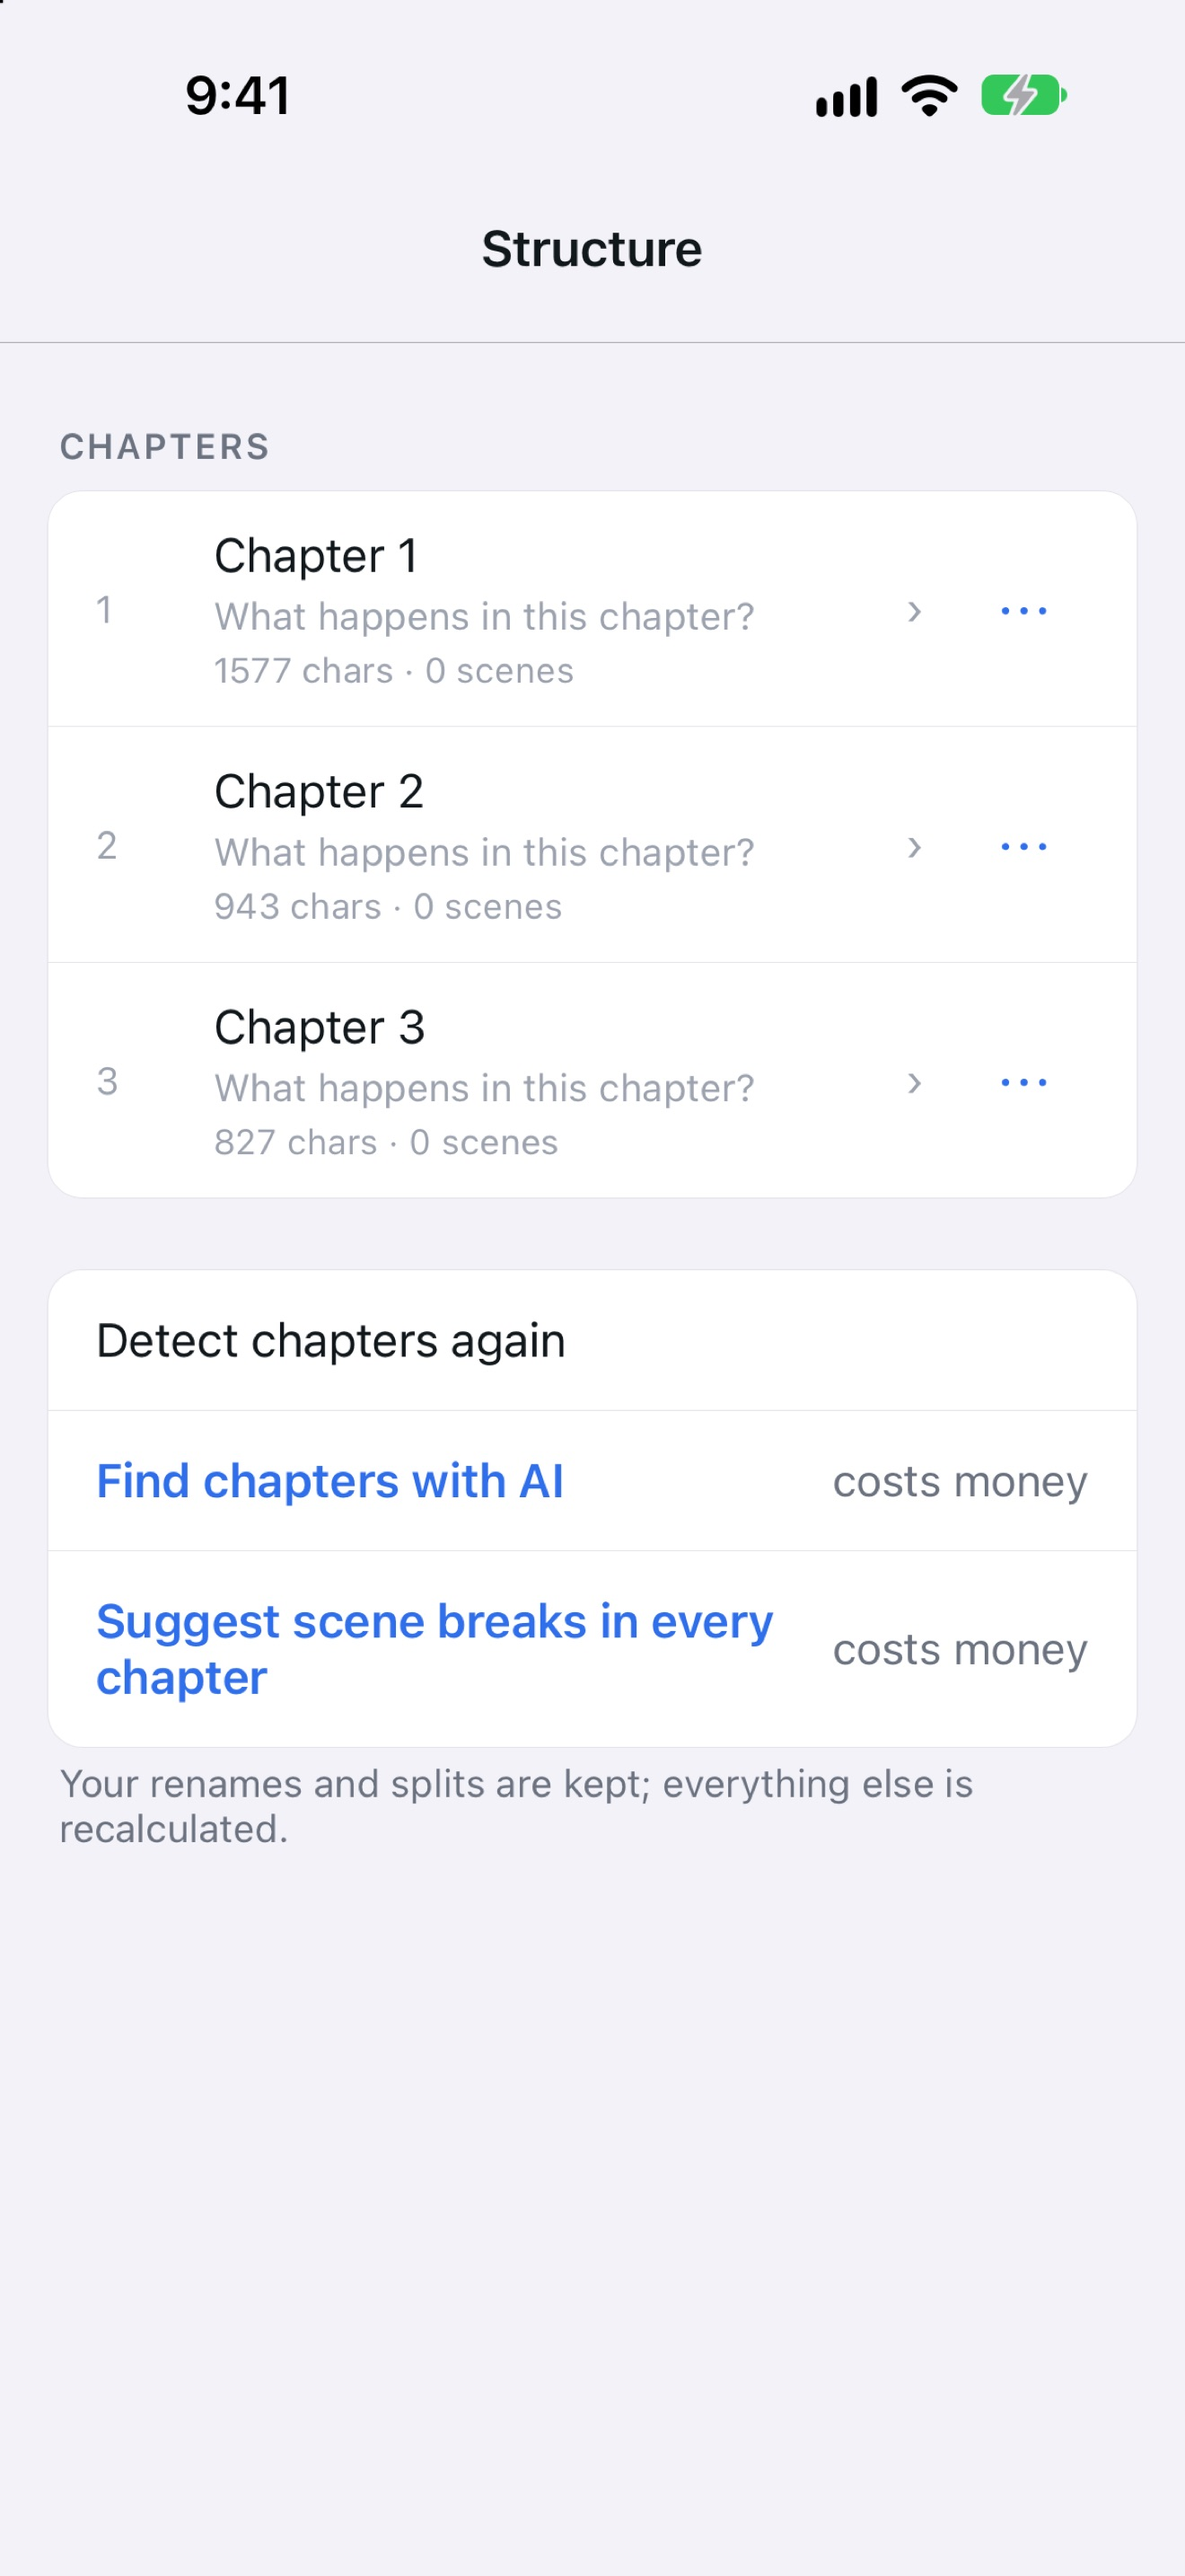
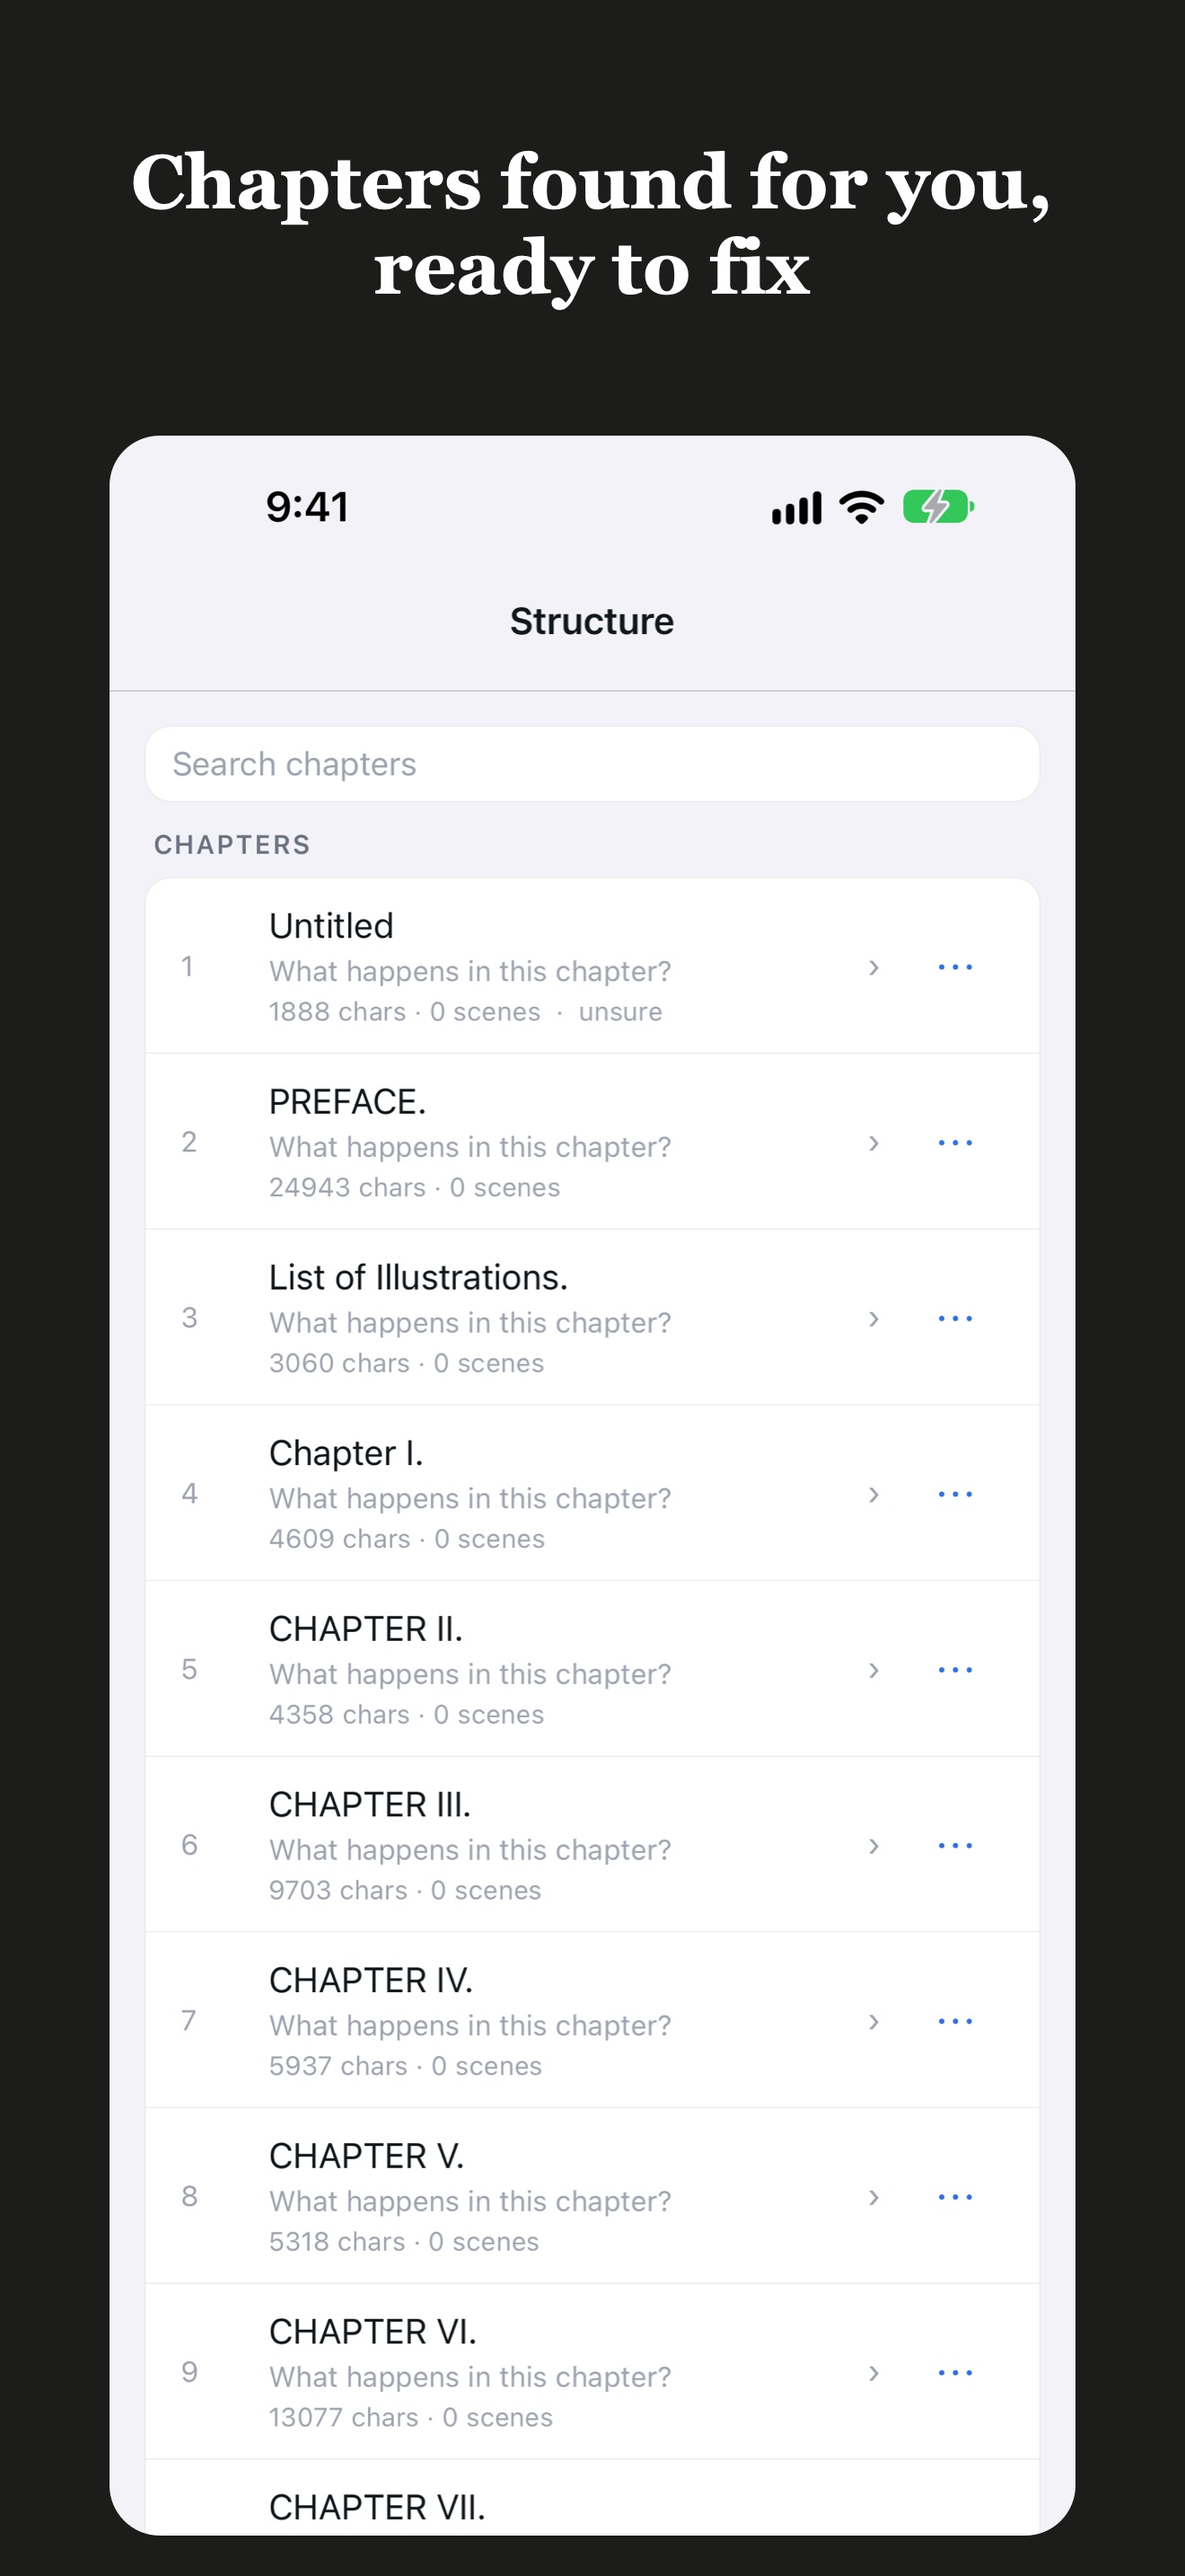
Take the listing screenshots from the sample's story bible
The old set led with the shelf, the reader and flash cards: what got 1.0
read as a generic reader. A UI test now opens the sample's cast, graph,
continuity, structure and place screens in English and Chinese, on a
simulator, and leaves the app on the real library afterwards. The review
notes walk the same path, and no longer promise a screenplay without a key.

diff --git a/src/dev/screenshot.ts b/src/dev/screenshot.ts
@@ -1,22 +1,60 @@
+import i18n from 'i18next';
 import { closeDatabase } from '../db';
-import { listBooks } from '../db/repo';
+import { deleteBook, listBooks, listEntities } from '../db/repo';
 import { router } from '../navigation/router';
+import { addSampleBook } from '../sample/sample';
+import { SAMPLE_GUTENBERG } from '../sample/prideAndPrejudice';
 import { setDemoMode } from './demo';
 import { seedDemoLibrary } from './seedDemo';
 
 // Only reachable when the native side passes a `screen` prop (SCREENSHOTS builds).
-export async function prepareScreenshots() {
-  await setDemoMode(true);
+let sampleId: string | undefined;
+
+/**
+ * `seed`: `demo` (default) the made-up library; `sample` the real Pride and
+ * Prejudice with its prepared analysis (`sample-fresh` imports it again);
+ * `off` back to the real library.
+ * `lang` applies for this launch only.
+ */
+export async function prepareScreenshots(seed = 'demo', lang?: string) {
+  if (lang) await i18n.changeLanguage(lang);
+  await setDemoMode(seed !== 'off');
   closeDatabase();
-  await seedDemoLibrary();
+  if (seed.startsWith('sample')) sampleId = await ensureSample(seed === 'sample-fresh');
+  else if (seed === 'demo') await seedDemoLibrary();
 }
 
-/** `/book/@Moby-Dick/cast`: `@Title` (underscores for spaces) becomes that book's id. */
+async function ensureSample(fresh: boolean): Promise<string> {
+  for (const book of await listBooks()) {
+    if (book.title !== SAMPLE_GUTENBERG.title) continue;
+    if (fresh) {
+      await deleteBook(book.id);
+      continue;
+    }
+    if ((await listEntities(book.id, 'character')).length > 10) return book.id;
+  }
+  return new Promise((resolve) => void addSampleBook(resolve));
+}
+
+/**
+ * `/book/@Moby-Dick/cast`: `@Title` (underscores for spaces) becomes that book's id,
+ * `@sample` the sample's. `/entity/@sample~Elizabeth_Bennet`: that book's character or place.
+ */
 export async function openScreen(spec: string) {
   const books = await listBooks();
-  const path = spec.replace(/@([^/]+)/, (_, name: string) => {
+  const bookId = (name: string) => {
+    if (name === 'sample') return sampleId ?? name;
     const title = name.replace(/_/g, ' ').toLowerCase();
     return books.find((b) => b.title.toLowerCase().startsWith(title))?.id ?? name;
-  });
-  router.replace(path);
+  };
+  const entityId = async (book: string, name: string) => {
+    const wanted = name.replace(/_/g, ' ');
+    const all = [...(await listEntities(book, 'character')), ...(await listEntities(book, 'place'))];
+    return all.find((e) => e.name === wanted)?.id ?? name;
+  };
+  const match = spec.match(/@([^/~]+)(?:~([^/]+))?/);
+  if (!match) return router.replace(spec);
+  const book = bookId(match[1]);
+  const id = match[2] ? await entityId(book, match[2]) : book;
+  router.replace(spec.replace(match[0], id));
 }

diff --git a/ios/NovelManUITests/ScreenshotTests.swift b/ios/NovelManUITests/ScreenshotTests.swift
@@ -1,0 +1,47 @@
+import XCTest
+
+/// Listing screenshots from the sample book, story bible first. Needs a SCREENSHOTS build;
+/// shots are attachments in the result bundle. Ends by switching the app back to the real library.
+final class ScreenshotTests: XCTestCase {
+  private let shots: [(name: String, route: String)] = [
+    ("01-cast", "/entity/@sample~Elizabeth_Bennet"),
+    ("02-graph", "/book/@sample/graph"),
+    ("03-continuity", "/book/@sample/cast"),
+    ("04-structure", "/book/@sample/structure"),
+    ("05-place", "/place/@sample~Pemberley"),
+    ("06-book", "/book/@sample"),
+  ]
+
+  override func setUp() {
+    continueAfterFailure = true
+  }
+
+  private func launch(_ route: String, seed: String, lang: String? = nil) -> XCUIApplication {
+    let app = XCUIApplication()
+    app.launchArguments = ["-screen", route, "-seed", seed] + (lang.map { ["-lang", $0] } ?? [])
+    app.launch()
+    return app
+  }
+
+  private func capture(lang: String, fresh: Bool) {
+    let ready = launch("/book/@sample/cast", seed: fresh ? "sample-fresh" : "sample", lang: lang)
+    let elizabeth = ready.staticTexts.matching(NSPredicate(format: "label CONTAINS 'Elizabeth'")).firstMatch
+    XCTAssertTrue(elizabeth.waitForExistence(timeout: 180), "sample never analysed")
+    for shot in shots {
+      _ = launch(shot.route, seed: "sample", lang: lang)
+      sleep(6)
+      let attachment = XCTAttachment(screenshot: XCUIScreen.main.screenshot())
+      attachment.name = "\(lang)-\(shot.name)"
+      attachment.lifetime = .keepAlways
+      add(attachment)
+    }
+  }
+
+  func test1English() { capture(lang: "en", fresh: true) }
+  func test2Chinese() { capture(lang: "zh-Hans", fresh: false) }
+  func test3BackToRealLibrary() {
+    let app = launch("/", seed: "off")
+    sleep(5)
+    app.terminate()
+  }
+}

diff --git a/src/navigation/Navigator.tsx b/src/navigation/Navigator.tsx
@@ -27,7 +27,9 @@ const Stack = createNativeStackNavigator();
  * app against the wrong library for even one query is how a demo would write
  * into the real one.
  */
-export default function App({ screen }: { screen?: string }) {
+type ShotProps = { screen?: string; seed?: string; lang?: string };
+
+export default function App({ screen, seed, lang }: ShotProps) {
   const [library, setLibrary] = useState(false);
 
   useEffect(() => {
@@ -37,7 +39,7 @@ export default function App({ screen }: { screen?: string }) {
     // both need the real answer in place before anything else runs.
     loadStorefront()
       .then(() => Promise.all([loadDemoMode(), loadUiLanguage()]))
-      .then(() => (screen ? prepareScreenshots() : undefined))
+      .then(() => (screen ? prepareScreenshots(seed, lang) : undefined))
       .then(() => setLibrary(true));
   }, [screen]);
 

diff --git a/ios/NovelMan/AppDelegate.swift b/ios/NovelMan/AppDelegate.swift
@@ -64,7 +64,11 @@ class SceneDelegate: UIResponder, UIWindowSceneDelegate {
 
   private func screenshotProps() -> [AnyHashable: Any]? {
     #if SCREENSHOTS
-    return UserDefaults.standard.string(forKey: "screen").map { ["screen": $0] }
+    let defaults = UserDefaults.standard
+    guard let screen = defaults.string(forKey: "screen") else { return nil }
+    var props: [AnyHashable: Any] = ["screen": screen]
+    for key in ["seed", "lang"] { props[key] = defaults.string(forKey: key) }
+    return props
     #else
     return nil
     #endif
